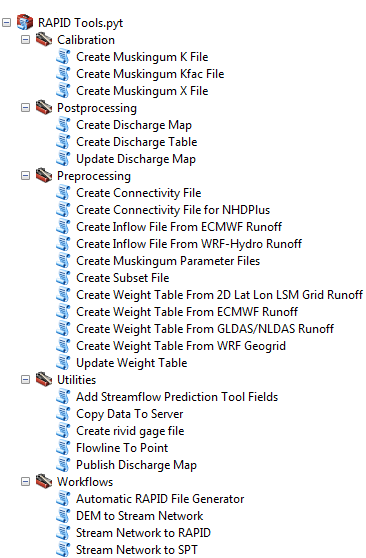
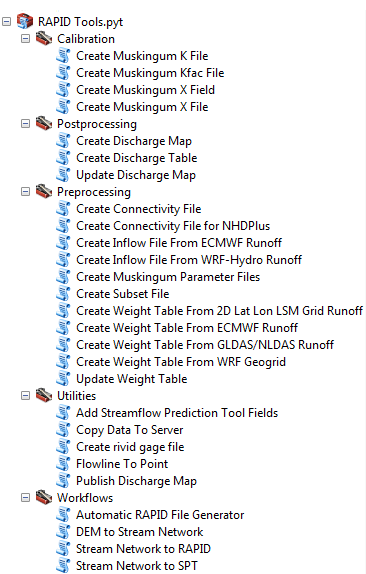
modified Muskingum X tools to be in 2 parts. One to create the field and one to create the file based on the field.

Changed region(s): [[0.0, 0.0, 0.9918, 1.0]]

diff --git a/toolbox/scripts/CreateMuskingumXFile.py b/toolbox/scripts/CreateMuskingumXFile.py
@@ -24,17 +24,11 @@ class CreateMuskingumXFile(object):
 
     def getParameterInfo(self):
         """Define parameter definitions"""
-        rapid_out_folder = arcpy.Parameter(name = 'rapid_out_folder',
-                                           displayName = 'RAPID Output Folder',
-                                           datatype = 'DEFolder',
-                                           parameterType = 'Required',
-                                           direction = 'Input')
-                                            
         input_Drainage_Lines = arcpy.Parameter(name="input_Drainage_Lines",
-                                         displayName="Input Drainage Lines",
-                                         direction="Input",
-                                         parameterType="Required",
-                                         datatype="GPFeatureLayer")
+                                              displayName="Input Drainage Lines",
+                                              direction="Input",
+                                              parameterType="Required",
+                                              datatype="GPFeatureLayer")
         input_Drainage_Lines.filter.list = ['Polyline']
 
         stream_id = arcpy.Parameter(name = "stream_ID",
@@ -47,25 +41,15 @@ class CreateMuskingumXFile(object):
         stream_id.filter.list = ['Short', 'Long', 'Double']
         stream_id.value = "HydroID"
 
-        Default_x = arcpy.Parameter(name="Default_x",
-                                    displayName="Default x value",
-                                    direction="Input",
-                                    parameterType="Required",
-                                    datatype="GPDouble")
-        Default_x.value = "0.3"
-         
-        Input_Reservoir = arcpy.Parameter(name = 'Input_Reservoir',
-                                           displayName = 'Input Reservoir Layer',
-                                           datatype = 'GPFeatureLayer',
-                                           parameterType = 'Optional',
-                                           direction = 'Input')
-        Input_Reservoir.filter.list = ['Polygon']
-
-        params = [rapid_out_folder, 
-                  input_Drainage_Lines, 
-                  stream_id, 
-                  Default_x, 
-                  Input_Reservoir]
+        out_muskingum_x_file = arcpy.Parameter(name = 'out_muskingum_x_file',
+                                               displayName = 'Muksingum X File',
+                                               datatype = 'DEFile',
+                                               parameterType = 'Required',
+                                               direction = 'Output')
+        
+        params = [input_Drainage_Lines,
+                  stream_id,
+                  out_muskingum_x_file]
 
         return params
 
@@ -77,6 +61,14 @@ class CreateMuskingumXFile(object):
         """Modify the values and properties of parameters before internal
         validation is performed.  This method is called whenever a parameter
         has been changed."""
+        if parameters[2].altered:
+            (dirnm, basenm) = os.path.split(parameters[2].valueAsText)
+            if not basenm.endswith(".csv"):
+                parameters[2].value = os.path.join(
+                    dirnm, "{}.csv".format(basenm))
+        else:
+            parameters[2].value = os.path.join(
+                arcpy.env.scratchFolder, "x.csv")
 
     def updateMessages(self, parameters):
         """Modify the messages created by internal validation for each tool
@@ -86,55 +78,21 @@ class CreateMuskingumXFile(object):
     def execute(self, parameters, messages):
         """The source code of the tool."""
         
-        rapid_out_folder = parameters[0].valueAsText
-        Drainage_Lines = parameters[1].valueAsText
-        stream_id = parameters[2].valueAsText
-        Default_x = parameters[3].valueAsText
-        Input_Reservoir = parameters[4].valueAsText
+        Drainage_Lines = parameters[0].valueAsText
+        stream_id = parameters[1].valueAsText
+        out_muskingum_x_file = parameters[2].valueAsText
 
+        Musk_x_field = "Musk_x"
         # Process: Muskingum x  
-        #check to see if a Muskingum x already exists
-        fieldList = arcpy.ListFields(Drainage_Lines, "Musk_x")
+        #check to see if a Muskingum x already exists, if not, add the field
+        fieldList = arcpy.ListFields(Drainage_Lines, Musk_x_field)
         fieldCount = len(fieldList)
-        if (fieldCount >= 1):
-            date = time.strftime("%m_%d_%Y")
-            Musk_x = "Musk_x_%s" %date
-        else:
-            Musk_x = "Musk_x"
-        
-        if Input_Reservoir:
-            #Determine if drainageline intersects rservoir
-            #create feature class where reservoirs and drainagelines intersect 
-            Reservoir_Drainagelines = os.path.join("in_memory", "Reservoir_Drainagelines")
-            inFeatures = [Drainage_Lines, Input_Reservoir]
-            arcpy.Intersect_analysis(in_features=inFeatures, out_feature_class=Reservoir_Drainagelines, join_attributes="ALL", cluster_tolerance="-1 Unknown", output_type="INPUT")
-            arcpy.AddField_management(Reservoir_Drainagelines, Musk_x, "DOUBLE", "", "", "", "", "NULLABLE", "NON_REQUIRED", "")
-            #field "Musk_x" set to 0.0 if drainageline intersects with reservoir
-            arcpy.CalculateField_management(Reservoir_Drainagelines, Musk_x, "0.0", "PYTHON", "")
-            arcpy.JoinField_management(Drainage_Lines, stream_id, Reservoir_Drainagelines, stream_id, Musk_x)
-            #changes muckingum x to Default_x if musk_x = null
-            with arcpy.da.UpdateCursor(Drainage_Lines,
-                                       [Musk_x]) as cursor:
-                for row in cursor:
-                    if row[0] != 0.0:
-                        row[0] = Default_x
-                        cursor.updateRow(row)
-            
-            # Delete cursor and row objects to remove locks on the data
-            del row
-            del cursor
-                    
-            # deletes Intersect with Drainage Line and Reservoir
-            arcpy.Delete_management(Reservoir_Drainagelines)
-        else:
-            #Add default field to file
-            arcpy.AddField_management(Drainage_Lines, Musk_x, "DOUBLE", "", "", "", "", "NULLABLE", "NON_REQUIRED", "")
-            arcpy.CalculateField_management(Drainage_Lines, Musk_x, Default_x, "PYTHON", "")
-        
+        if (fieldCount < 1):
+            arcpy.AddError("The Musk_x field is missing. To fix this, run the \"Create Muskingum X Field\" tool.")
+       
         #generate file 
-        out_muskingum_x_file = os.path.join(rapid_out_folder, "x.csv")
         ##make a list of all of the fields in the table
-        field_names = [stream_id, Musk_x]
+        field_names = [stream_id, Musk_x_field]
         with open(out_muskingum_x_file,'wb') as csvfile:
             connectwriter = csv.writer(csvfile, dialect='excel')
             for row in sorted(arcpy.da.SearchCursor(Drainage_Lines, field_names)):

diff --git a/toolbox/scripts/CreateMuskingumXField.py b/toolbox/scripts/CreateMuskingumXField.py
@@ -1,0 +1,127 @@
+'''-------------------------------------------------------------------------------
+ Tool Name:   CreateMuskingumXField
+ Source Name: CreateMuskingumXField.py
+ Version:     ArcGIS 10.3
+ License:     Apache 2.0
+ Author:      Andrew Dohmann and Alan Snow
+ Updated by:  Andrew Dohmann
+ Description: Produces 
+ History:     Initial coding - 06/27/2016, version 1.0
+ Updated:     Version 1.1, 06/27/2016, initial coding
+-------------------------------------------------------------------------------'''
+import arcpy
+import csv
+import os
+import time
+
+class CreateMuskingumXField(object):
+    def __init__(self):
+        """Define the tool (tool name is the name of the class)."""
+        self.label = "Create Muskingum X Field"
+        self.description = ("Creates and updates the Muskingum X field for RAPID")
+        self.canRunInBackground = False
+        self.category = "Calibration"
+
+    def getParameterInfo(self):
+        """Define parameter definitions"""
+        input_Drainage_Lines = arcpy.Parameter(name="input_Drainage_Lines",
+                                         displayName="Input Drainage Lines",
+                                         direction="Input",
+                                         parameterType="Required",
+                                         datatype="GPFeatureLayer")
+        input_Drainage_Lines.filter.list = ['Polyline']
+
+        stream_id = arcpy.Parameter(name = "stream_ID",
+                                    displayName = "Stream ID",
+                                    direction = "Input",
+                                    parameterType = "Required",
+                                    datatype = "Field"
+                                    )
+        stream_id.parameterDependencies = ["input_Drainage_Lines"]
+        stream_id.filter.list = ['Short', 'Long', 'Double']
+        stream_id.value = "HydroID"
+
+        Default_x = arcpy.Parameter(name="Default_x",
+                                    displayName="Default x value",
+                                    direction="Input",
+                                    parameterType="Required",
+                                    datatype="GPDouble")
+        Default_x.value = "0.3"
+         
+        Input_Reservoir = arcpy.Parameter(name = 'Input_Reservoir',
+                                           displayName = 'Input Reservoir Layer',
+                                           datatype = 'GPFeatureLayer',
+                                           parameterType = 'Optional',
+                                           direction = 'Input')
+        Input_Reservoir.filter.list = ['Polygon']
+
+        params = [input_Drainage_Lines, 
+                  stream_id, 
+                  Default_x, 
+                  Input_Reservoir]
+
+        return params
+
+    def isLicensed(self):
+        """Set whether tool is licensed to execute."""
+        return True
+
+    def updateParameters(self, parameters):
+        """Modify the values and properties of parameters before internal
+        validation is performed.  This method is called whenever a parameter
+        has been changed."""
+
+    def updateMessages(self, parameters):
+        """Modify the messages created by internal validation for each tool
+        parameter.  This method is called after internal validation."""
+        return
+
+    def execute(self, parameters, messages):
+        """The source code of the tool."""
+        
+        Drainage_Lines = parameters[0].valueAsText
+        stream_id = parameters[1].valueAsText
+        Default_x = parameters[2].valueAsText
+        Input_Reservoir = parameters[3].valueAsText
+
+        Musk_x_field = "Musk_x"
+        # Process: Muskingum x  
+        #check to see if a Muskingum x already exists, if not, add the field
+        fieldList = arcpy.ListFields(Drainage_Lines, Musk_x_field)
+        fieldCount = len(fieldList)
+
+        if Input_Reservoir:
+            arcpy.AddMessage("Setting Musk_x to \"0\" where the drainage lines intersect the reservoir shapefile ...")
+            #Determine if drainageline intersects rservoir
+            #create feature class where reservoirs and drainagelines intersect 
+            Reservoir_Drainagelines = os.path.join("in_memory", "Reservoir_Drainagelines")
+            inFeatures = [Drainage_Lines, Input_Reservoir]
+            arcpy.Intersect_analysis(in_features=inFeatures, out_feature_class=Reservoir_Drainagelines, join_attributes="ALL", cluster_tolerance="-1 Unknown", output_type="INPUT")
+            if (fieldCount < 1):
+                arcpy.AddField_management(Reservoir_Drainagelines, Musk_x_field, "DOUBLE", "", "", "", "", "NULLABLE", "NON_REQUIRED", "")
+            #field "Musk_x" set to 0.0 if drainageline intersects with reservoir
+            arcpy.CalculateField_management(Reservoir_Drainagelines, Musk_x_field, "0.0", "PYTHON", "")
+            #delete old field and recalculate from joined field
+            if (fieldCount >= 1):
+                arcpy.DeleteField_management(Drainage_Lines, [Musk_x_field])
+            arcpy.JoinField_management(Drainage_Lines, stream_id, Reservoir_Drainagelines, stream_id, Musk_x_field)
+            #changes muckingum x to Default_x if musk_x = null
+            with arcpy.da.UpdateCursor(Drainage_Lines,
+                                       [Musk_x_field]) as cursor:
+                for row in cursor:
+                    if row[0] != 0.0:
+                        row[0] = Default_x
+                        cursor.updateRow(row)
+            
+            # Delete cursor and row objects to remove locks on the data
+            del row
+            del cursor
+            # deletes Intersect with Drainage Line and Reservoir
+            arcpy.Delete_management(Reservoir_Drainagelines)
+        else:
+            if (fieldCount < 1):
+                arcpy.AddField_management(Drainage_Lines, Musk_x_field, "DOUBLE", "", "", "", "", "NULLABLE", "NON_REQUIRED", "")
+            #Set field value to default muskingum X
+            arcpy.CalculateField_management(Drainage_Lines, Musk_x_field, Default_x, "PYTHON", "")
+        
+        return

diff --git a/toolbox/scripts/StreamNetworktoRAPID.py b/toolbox/scripts/StreamNetworktoRAPID.py
@@ -194,7 +194,9 @@ class StreamNetworktoRAPID(object):
                                               out_muskingum_k_file)
                                               
         # Process: Muskingum x  
-        arcpy.CreateMuskingumXFile_RAPIDTools(rapid_out_folder, Drainage_Lines, Stream_ID_DrainageLine,"0.3", Input_Reservoirs)
+        out_muskingum_x_file = os.path.join(rapid_out_folder, "x.csv")
+        arcpy.CreateMuskingumXField_RAPIDTools(Drainage_Lines, Stream_ID_DrainageLine,"0.3", Input_Reservoirs)
+        arcpy.CreateMuskingumXFile_RAPIDTools(Drainage_Lines, Stream_ID_DrainageLine, out_muskingum_x_file)
 
         if Catchment_Features:
             lsm_grid_directory = os.path.join(script_directory, "lsm_grids")
